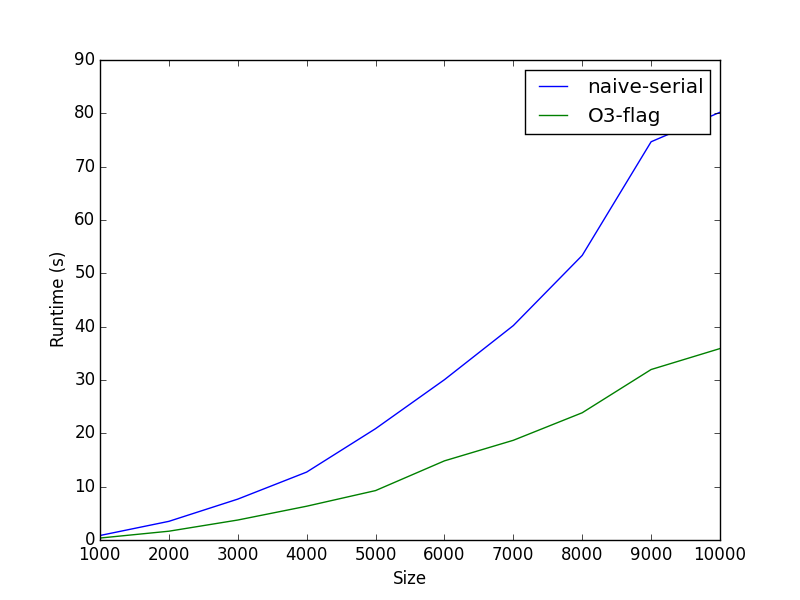
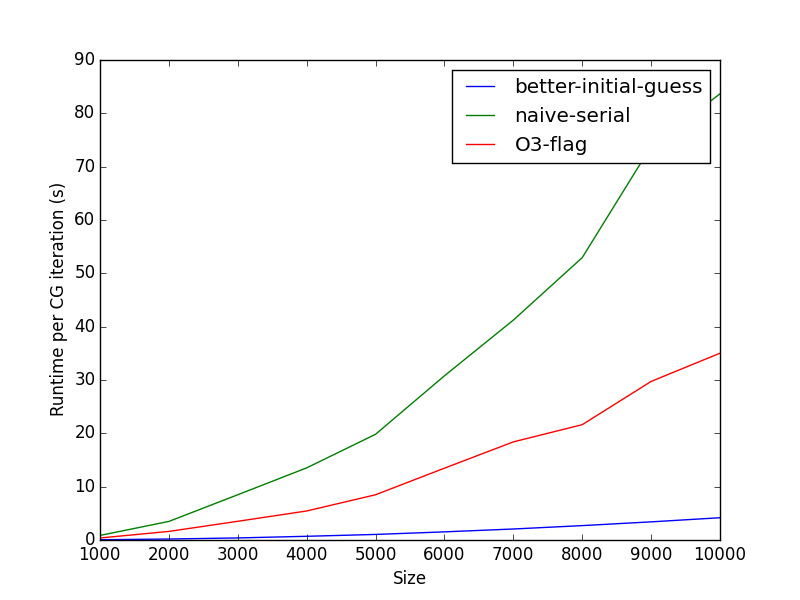
updated figures in report.

diff --git a/project/report/project.tex b/project/report/project.tex
@@ -556,19 +556,10 @@ call conjugategradient()
 deallocate(qp, wt, x, kel, rel, phi, dphi, rglob, a, aprev, z, zprev, res, LM)
 \end{lstlisting}
 
-The remainder of this section will discuss changes made to this serial algorithm just described in order to obtain better serial performance. With no compiler flags, the runtime of this serial code on 2.5 GHz Intel Core i5 is shown below for 1000 to 10000 finite elements. By measuring the runtime of the {\tt conjugategradient} subroutine, it can be seen that the total runtime is almost entirely due to the conjugate gradient solution. Hence, most effort will be spent optimizing this function. The number of CG iterations increases with the number of elements - without preconditioning, this cannot be changed and is a feature of the numerical method. However, what {\it can} be improved through code adjustments is the runtime per CG iteration, shown in Fig. \ref{fig:runtime_per_CG} below. As can be seen, the runtime for each CG iteration is not constant, and this is due to the fact that the larger the number of elements, the larger the matrix multiplications and vector dot products inherent to the iterative solver. A very simple change that can be done is to use a better starting guess for the iterative solution. By changing the initial guess from unity to a straight line between the left and right Dirichlet boundary conditions, the runtime per CG iteration drops by about a factor of 10 due to the factor of 10 lower iterations required due to being closer to the true numerical solution.
-
-% better-initial-guess.txt : sets a better guess for a
-\begin{figure}[H]
-\centering
-\includegraphics[width=0.6\linewidth]{../figures/O3-flag-runtime-per-CG.png}
-\caption{Runtime per CG iteration as a function of the number of elements with the naive serial code (no compiler flags) and the same code compiled with the {\tt -O3} option. The same number of iterations are performed for each number of discrete elements.}
-\end{figure}
-
-A challenge associated with an iterative solution scheme is that it is not easily parallelizable - each iteration of the loop depends on previous solution iterates, and while the matrix multiplication and dot products can be easily parallelized, some quantities, such as \(\theta\) and \(\lambda\), require the aggregate matrix-vector products and vector-vector products, and hence the entire iterative solution cannot be performed completely independently for sections of the numerical solution.
+The remainder of this section will discuss changes made to this serial algorithm just described in order to obtain better serial performance. With no compiler flags, the runtime of this serial code on 2.5 GHz Intel Core i5 is shown below for 1000 to 10000 finite elements. By measuring the runtime of the {\tt conjugategradient} subroutine, it can be seen that the total runtime is almost entirely due to the conjugate gradient solution. Hence, most effort will be spent optimizing this function. The number of CG iterations increases with the number of elements - without preconditioning, this cannot be changed and is a feature of the numerical method. However, what {\it can} be improved through code adjustments is the runtime per CG iteration. A very simple change that can be done is to use a better starting guess for the iterative solution. By changing the initial guess from unity to a straight line between the left and right Dirichlet boundary conditions, the runtime per CG iteration drops by about a factor of 10 due to the factor of 10 lower iterations required due to being closer to the true numerical solution. A challenge associated with an iterative solution scheme is that it is not easily parallelizable - each iteration of the loop depends on previous solution iterates, and while the matrix multiplication and dot products can be easily parallelized, some quantities, such as \(\theta\) and \(\lambda\), require the aggregate matrix-vector products and vector-vector products, and hence the entire iterative solution cannot be performed completely independently for sections of the numerical solution.
 
 \subsection{Reducing FLOPs}
-The first, and perhaps most obvious, way to improve performance is to reduce unnecessary computation. This can be done in the {\tt conjugategradient} function by not performing {\tt sparse_mult} 
+The first, and perhaps most obvious, way to improve performance is to reduce unnecessary computation. This can be done in the {\tt conjugategradient} function by not performing {\tt sparse\_mult} 
 
 \subsection{Vectorization}
 
@@ -576,11 +567,12 @@ Single Instruction, Multiple Data (SIMD) is the process by which a single instru
 
 % naive-serial.txt: original serial code version, with no vectorization or other optimizations made in the CG solver
 % O3-dotprod.txt: original code compiled with -O3
+% better-initial-guess.txt: original code, compiled with -O3, but a linear starting guess
 
 \begin{figure}[H]
 \centering
 \includegraphics[width=0.6\linewidth]{../figures/O3-flag.png}
-\caption{Runtime as a function of the number of elements with the naive serial code (no compiler flags) and the same code compiled with the {\tt -O3} option.}
+\caption{Runtime as a function of the number of elements with the naive serial code (no compiler flags) and the same code compiled with the {\tt -O3} option, both with the initial naive iterative solution guess of \(a=1.0\) and with a linear interpolation.}
 \end{figure}
 
 \section{Parallel Implementation}
